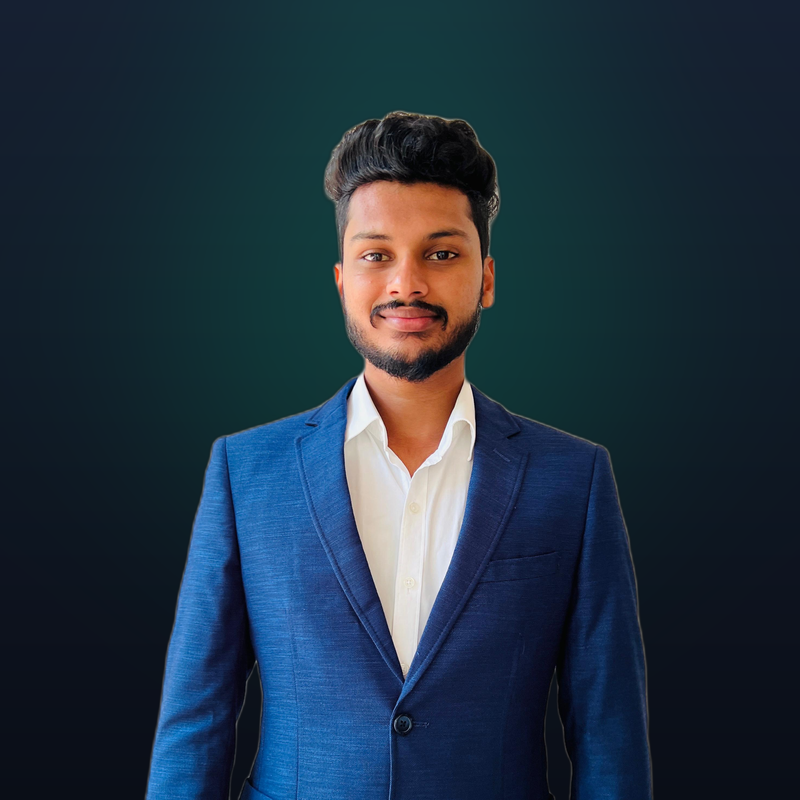
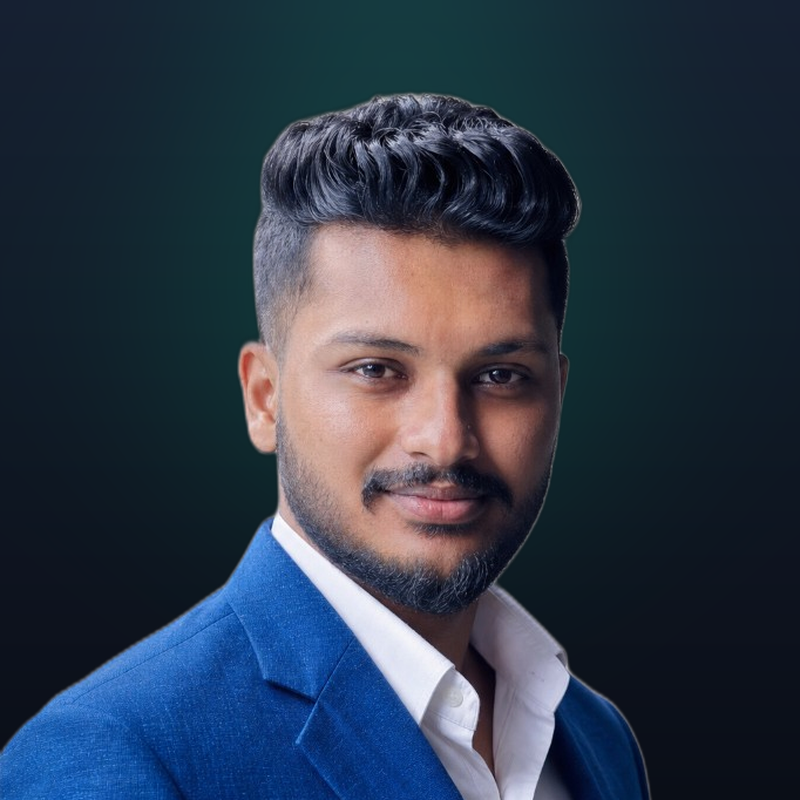
profile image updated

diff --git a/css/style.css b/css/style.css
@@ -285,9 +285,7 @@ body {
   width: 100%;
   height: 100%;
   object-fit: cover;
-  /* Zoom into head and shoulders so the subject fills the frame */
-  transform: scale(1.55);
-  transform-origin: 50% 26%;
+  object-position: center 20%;
 }
 
 .hero-photo-badge {
